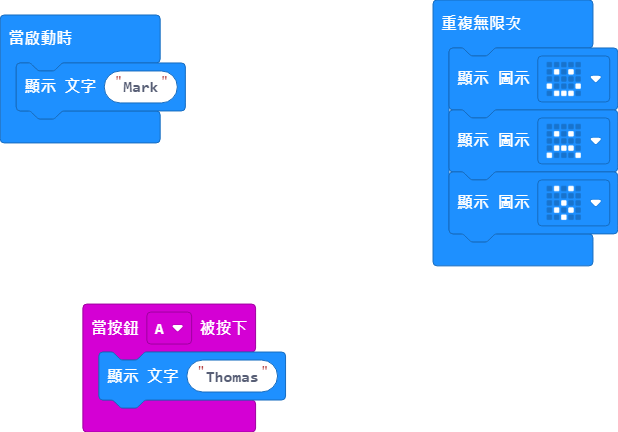
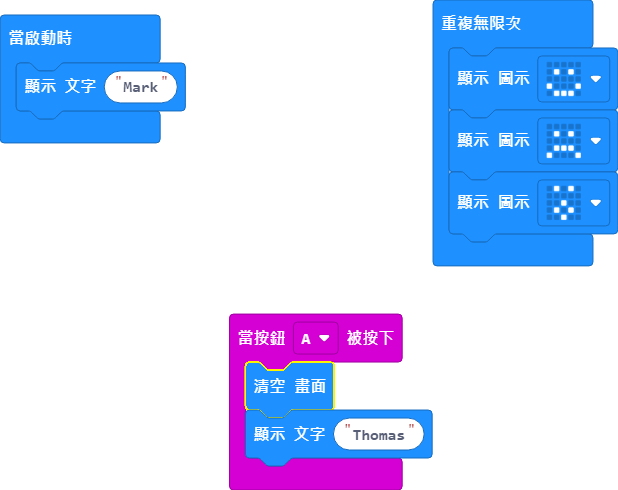
Update the onButton event handler of A button

Changed region(s): [[0.123, 0.6319, 0.7071, 1.0], [0.6764, 0.0301, 1.0, 0.6319], [0.0, 0.0301, 0.3074, 0.331]]

diff --git a/main.ts b/main.ts
@@ -1,4 +1,5 @@
 input.onButtonPressed(Button.A, function () {
+    basic.clearScreen()
     basic.showString("Thomas")
 })
 basic.showString("Mark")
